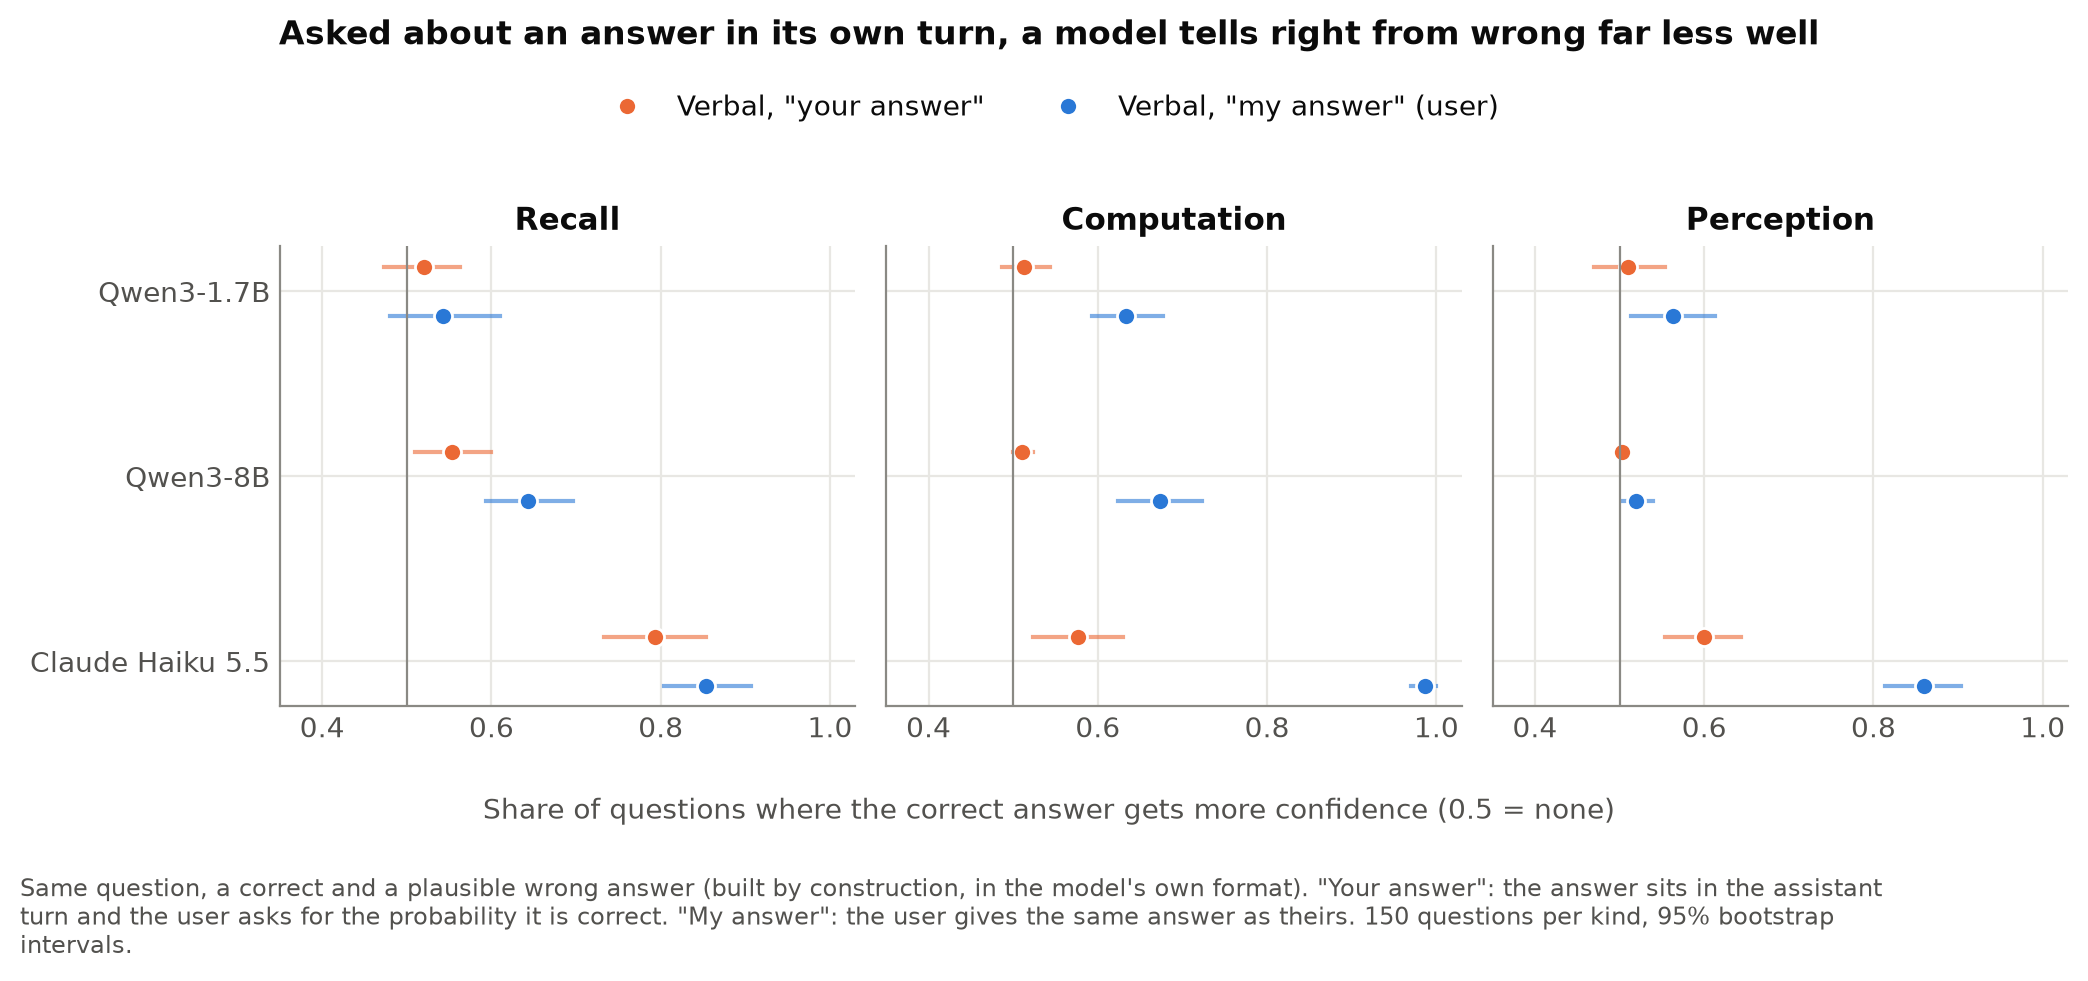
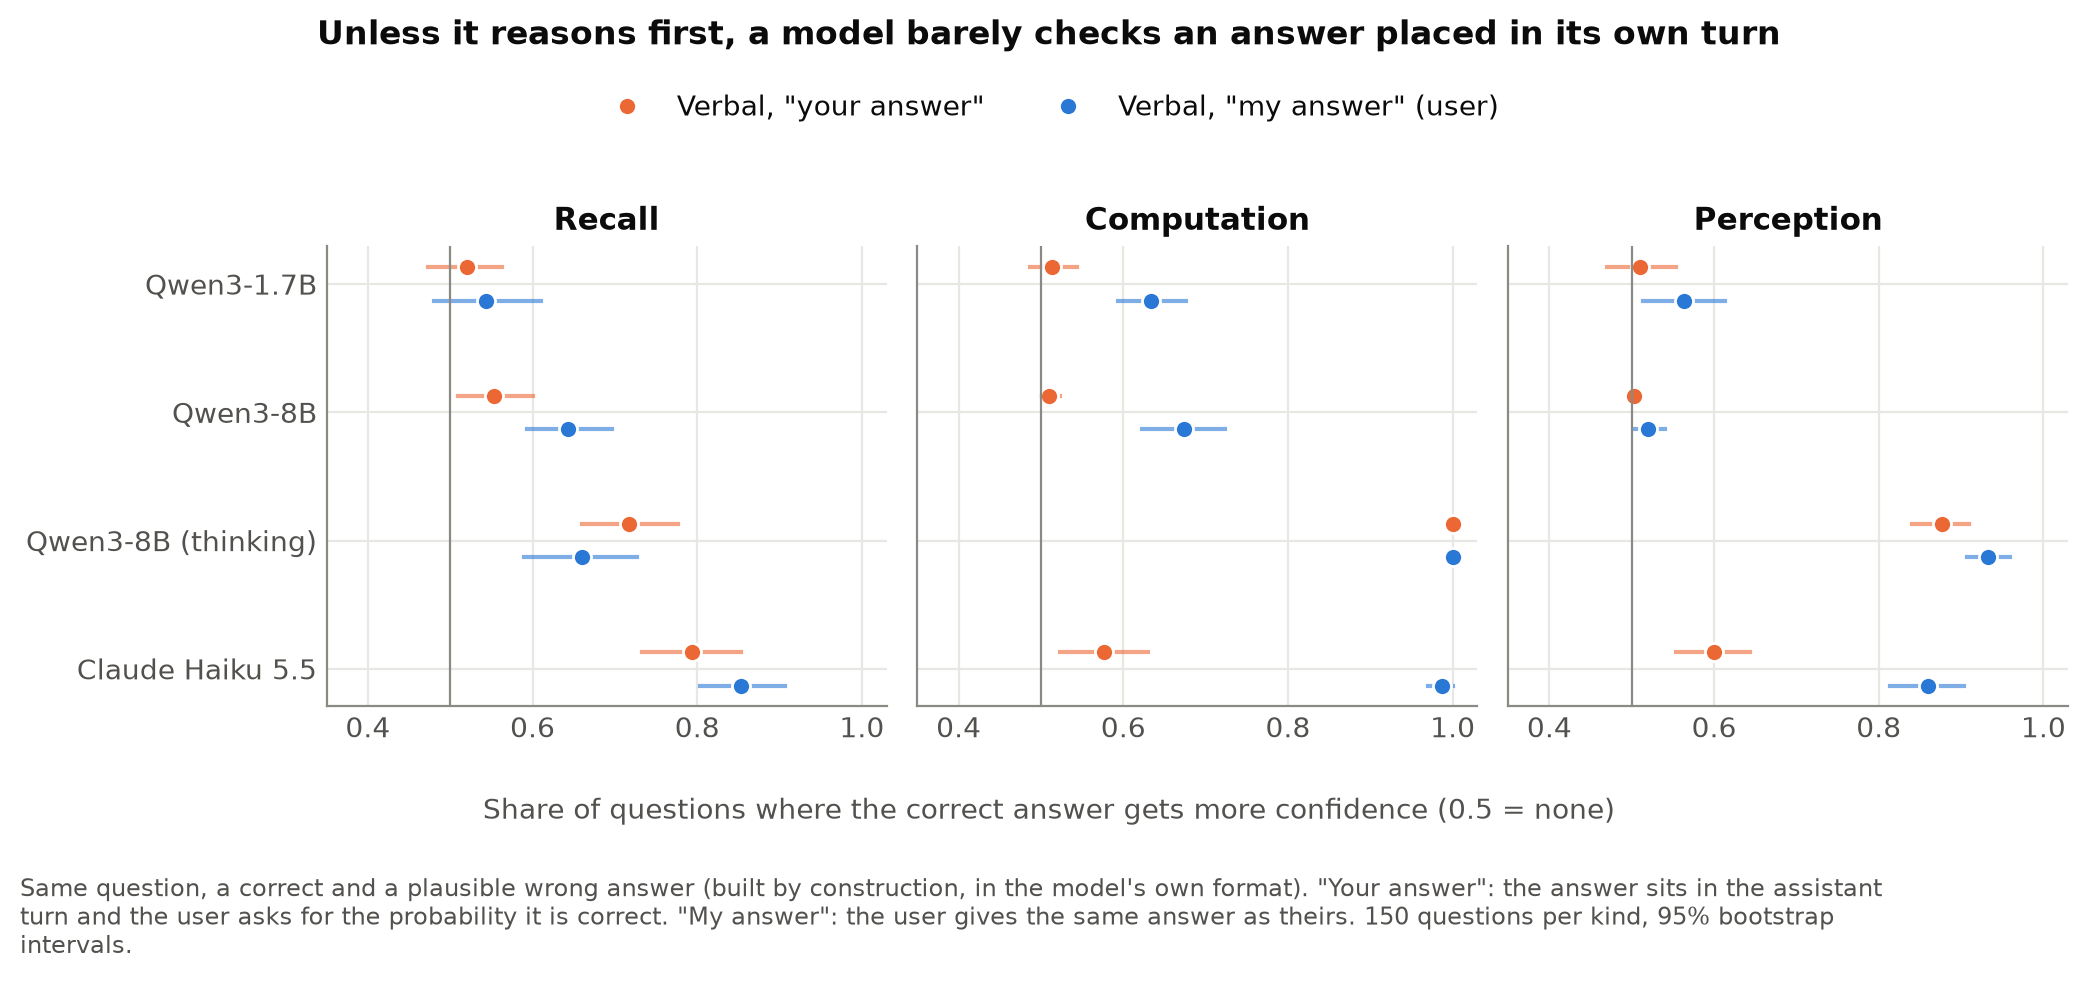
Phase 2 E2b: Qwen3-8B thinking analysis (thinking removes the effect); key figure retitled

diff --git a/experiments/epic2/phase2_confidence_gap/analyze_swaps.py b/experiments/epic2/phase2_confidence_gap/analyze_swaps.py
@@ -417,7 +417,7 @@ def fig_ownership(sep: pd.DataFrame) -> None:
             ax.invert_yaxis()
     h, lab = axes[0].get_legend_handles_labels()
     fig.legend(h, lab, loc="upper center", ncol=2, bbox_to_anchor=(0.5, 1.06))
-    fig.suptitle("Asked about an answer in its own turn, a model tells right from wrong far less well",
+    fig.suptitle("Unless it reasons first, a model barely checks an answer placed in its own turn",
                  y=1.13, fontweight="bold")
     fig.supxlabel("Share of questions where the correct answer gets more confidence (0.5 = none)",
                   fontsize=10, color=pl.INK2)

diff --git a/experiments/epic2/phase2_confidence_gap/results/README.md b/experiments/epic2/phase2_confidence_gap/results/README.md
@@ -73,3 +73,20 @@ Verbal self vs user on Claude Haiku 5.5 (API, from the Mac; Phase 1's settings: 
 - **The ownership effect is larger than in Qwen.** A planted wrong product gets 0.9 or more in 78% of cases as "your answer" and in none as the user's; moving the same wrong answer to the user's turn lowers confidence by 0.80 [0.74, 0.85] on computation and 0.77 [0.70, 0.82] on perception.
 - **Mechanism visible in the replies:** under "my answer" Haiku recomputes the answer in its reply ("85 × 98 = 8500 − 170 = 8330. The answer 8830 is incorrect."); under "your answer" it states a confidence without checking. Owning the answer appears to switch off verification. Recall, where there is nothing to recompute, shows the smallest gap.
 - **Prediction** ("Haiku shows the same pattern: separation under 'your answer' within 0.05 of 0.5 on at least two kinds, and higher under 'my answer'"): **partly supported.** Higher under "my answer" on every kind (much higher on computation and perception), but "your answer" is above chance (0.58, 0.60, 0.79), not within 0.05 of 0.5 on any kind: Haiku keeps some separation in its own turn, Qwen almost none.
+
+## E2b — Qwen3-8B with thinking on (2026-11-15)
+
+Verbal self vs user on Qwen3-8B with thinking on (4090, vLLM; Phase 1's settings: temperature 0.6, max_tokens 6,000; the thinking trace stripped before parsing). 2,670 replies, no errors; 3 cut off at the token limit and so unparsed, left out (0.1%).
+
+| Separation (150 questions per kind) | "Your answer", no thinking | "Your answer", thinking | "My answer", thinking |
+| --- | --- | --- | --- |
+| Computation | 0.51 [0.50, 0.52] | 1.00 [1.00, 1.00] | 1.00 [1.00, 1.00] |
+| Perception | 0.50 [0.50, 0.51] | 0.88 [0.84, 0.91] | 0.93 [0.91, 0.96] |
+| Recall | 0.55 [0.51, 0.60] | 0.72 [0.66, 0.78] | 0.66 [0.59, 0.73] |
+
+- **Thinking removes the effect.** With thinking on, Qwen3-8B gives planted wrong products 0.00 and correct ones 1.00 even as "your answer"; planted wrong perception answers get 0.9 or more in 25% of cases (100% without thinking). The ownership difference on wrong answers is 0.00 on computation and 0.15 on recall and perception, against 0.21 to 0.37 without thinking.
+- **What it means.** The gap is not about ownership as such but about checking: without reasoning, a model rates an answer in its own turn without checking it; Claude Haiku checks the user's answer in its visible reply, and thinking makes the model check its own as well. This matches Tsui's finding that reasoning-trained models lack the self-correction blind spot.
+- **Caveat.** On computation and perception the thinking model recomputes the answer, so its confidence becomes verification, not introspection about its earlier state. Recall cannot be recomputed; there thinking helps less (0.72 vs 0.55 without).
+- **Prediction** ("thinking reduces but does not remove it: separation under 'your answer' above 0.5 but below 'my answer'"): **not supported.** Above 0.5 on every kind, but not below "my answer": equal on computation, within the intervals on perception, and slightly above on recall. Thinking removes the gap.
+
+**Updated story.** Without reasoning first, a model's confidence in an answer placed in its own turn barely depends on whether the answer is right (Qwen3-8B and 1.7B: 0.50 to 0.55; Claude Haiku: 0.58 to 0.79), while the same model, judging the same answer as the user's, separates far better (Haiku computation 0.99). The difference is checking: the user's answer is checked, the model's own is not, unless the model reasons before stating its confidence, in which case its own answer is checked too.
